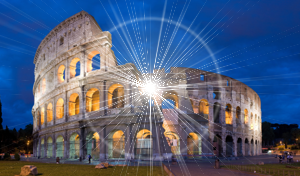
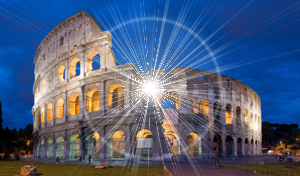
Updated examples for brightness and contrast

diff --git a/README.md b/README.md
@@ -94,8 +94,10 @@ and either re-written them in Scala, wrapped them in Scala, or fixed bugs and mo
 | ------------- |-------------|-------------|
 | Block       | ![](https://raw.github.com/sksamuel/scrimage/master/examples/filters/bird_block_4.png) | ![](https://raw.github.com/sksamuel/scrimage/master/examples/filters/lanzarote_block_4.png) |
 | Blur       | ![](https://raw.github.com/sksamuel/scrimage/master/examples/filters/bird_blur.png) | ![](https://raw.github.com/sksamuel/scrimage/master/examples/filters/lanzarote_blur.png) |
+| Brightness | ![](https://raw.github.com/sksamuel/scrimage/master/examples/filters/bird_brightness.png) | ![](https://raw.github.com/sksamuel/scrimage/master/examples/filters/lanzarote_brightness.png) |
 | Bump       | ![](https://raw.github.com/sksamuel/scrimage/master/examples/filters/bird_bump.png) | ![](https://raw.github.com/sksamuel/scrimage/master/examples/filters/lanzarote_bump.png) |
 | Chrome       | ![](https://raw.github.com/sksamuel/scrimage/master/examples/filters/bird_chrome.png) | ![](https://raw.github.com/sksamuel/scrimage/master/examples/filters/lanzarote_chrome.png) |
+| Contrast | ![](https://raw.github.com/sksamuel/scrimage/master/examples/filters/bird_contrast.png) | ![](https://raw.github.com/sksamuel/scrimage/master/examples/filters/lanzarote_contrast.png) |
 | Despeckle       | ![](https://raw.github.com/sksamuel/scrimage/master/examples/filters/bird_despeckle.png) | ![](https://raw.github.com/sksamuel/scrimage/master/examples/filters/lanzarote_despeckle.png) |
 | Dither       | ![](https://raw.github.com/sksamuel/scrimage/master/examples/filters/bird_dither.png) | ![](https://raw.github.com/sksamuel/scrimage/master/examples/filters/lanzarote_dither.png) |
 | Diffuse | ![](https://raw.github.com/sksamuel/scrimage/master/examples/filters/bird_diffuse_4.png) | ![](https://raw.github.com/sksamuel/scrimage/master/examples/filters/lanzarote_diffuse_4.png) |
